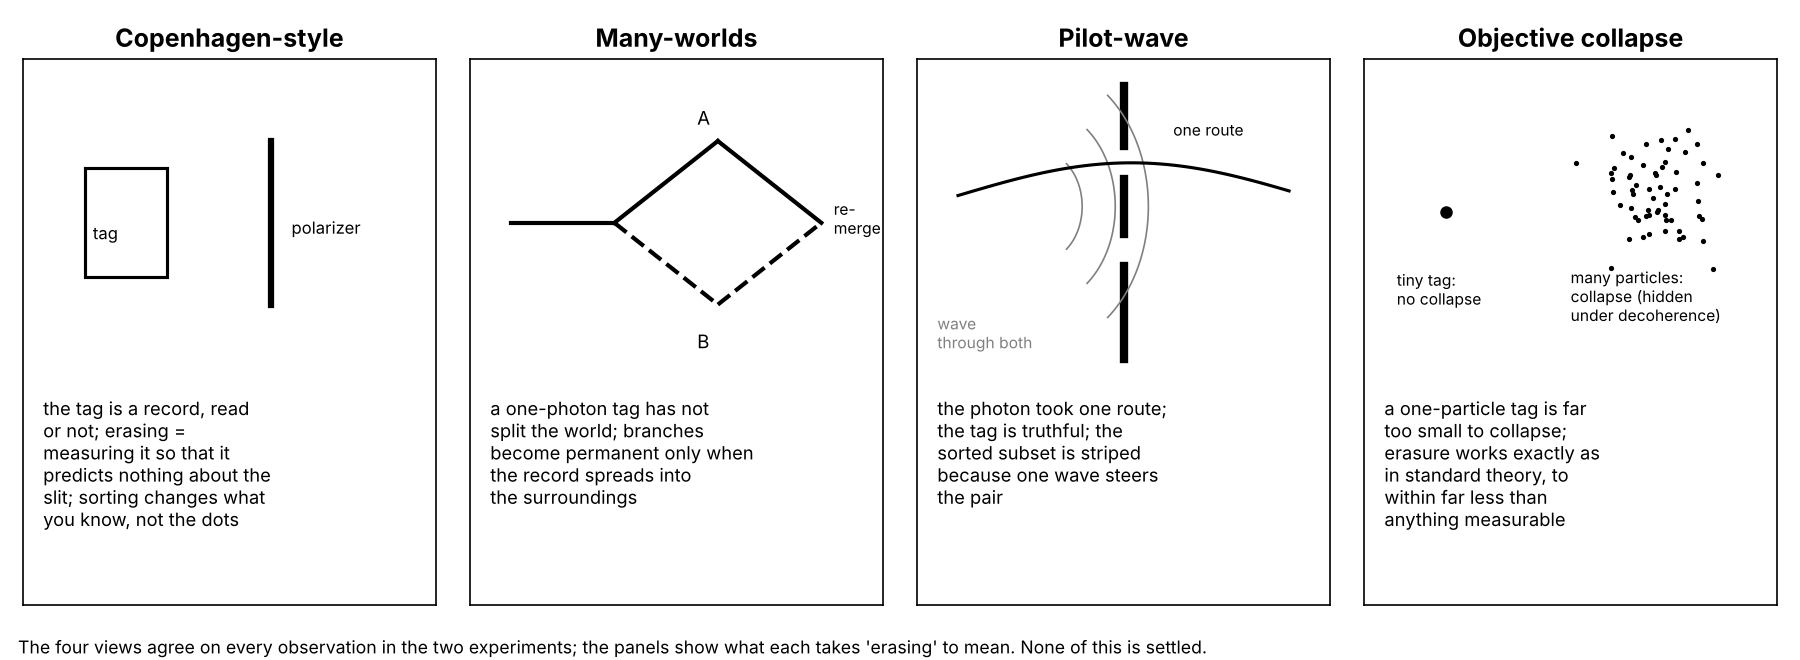
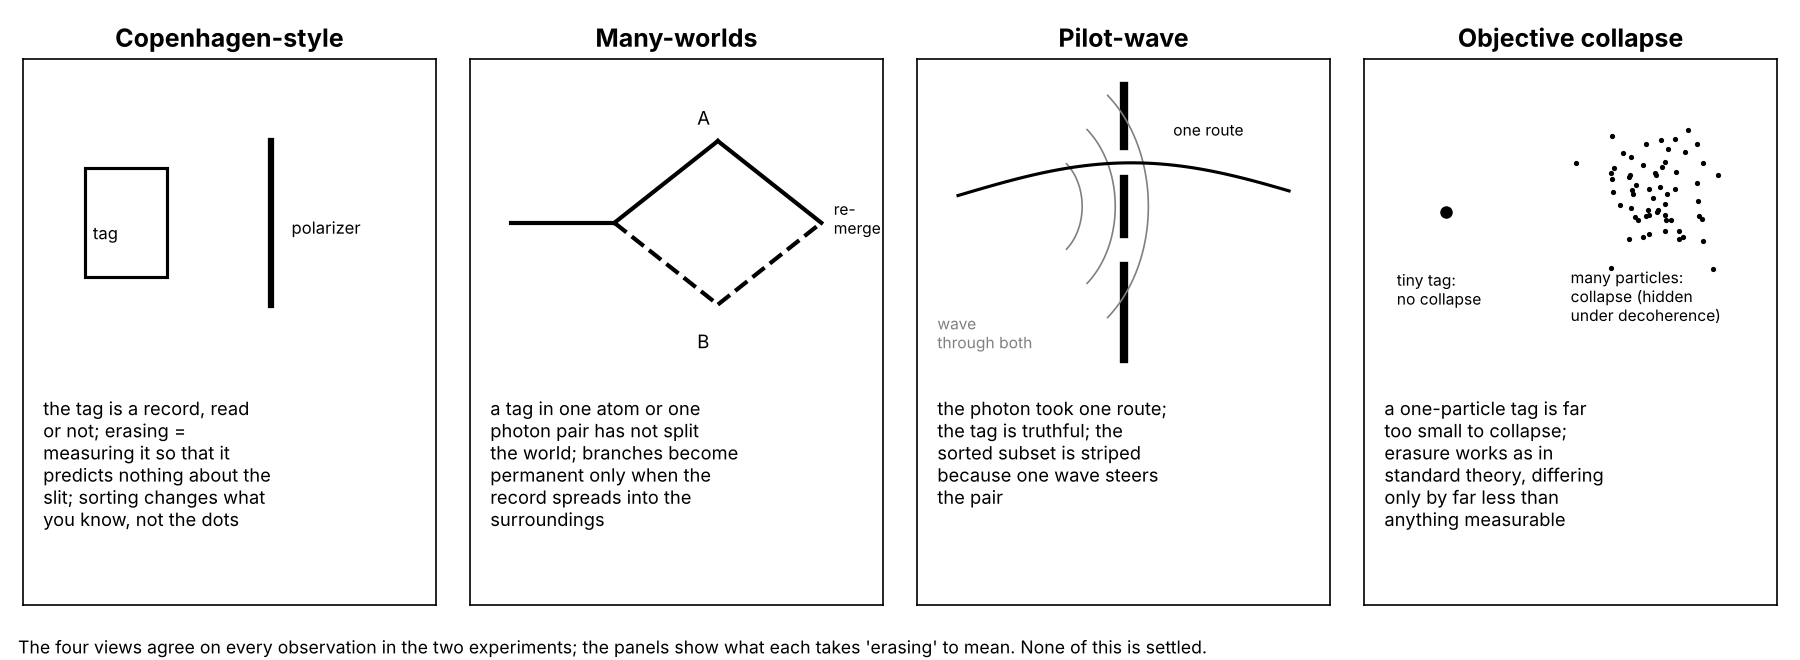
Tutor run (which-path): final fixes to explanation A and its figures
Claude-Session: https://claude.ai/code/session_011EeWx5AEdppYiarvRbDBmd

Changed region(s): [[0.2489, 0.6061, 0.4356, 0.8182], [0.7778, 0.6667, 0.9022, 0.7879]]

diff --git a/work/20261008-142932-which-path-decoherence/checks/fig_a-relate-map_2.py b/work/20261008-142932-which-path-decoherence/checks/fig_a-relate-map_2.py
@@ -6,7 +6,7 @@ fig, ax = plt.subplots(figsize=(10, 5.2)); ax.set_xlim(0, 10); ax.set_ylim(0, 10
 box = dict(boxstyle="round,pad=0.4", fc="white", ec="k", lw=1.3)
 ax.text(5, 9.2, "Model 2: joint wave of particle + tag\n(Schrödinger equation)", ha="center", va="center", bbox=box)
 ax.text(2.0, 6.3, "Model 1: two arrows for the tag\n(overlap = stripe strength)", ha="center", va="center", bbox=box)
-ax.text(8.0, 6.3, "decoherence: very many taggers, each\nscattered off the object (overlaps multiply)", ha="center", va="center", bbox=box)
+ax.text(8.0, 6.3, "decoherence: very many taggers, each\nscattered off the object (overlaps multiply);\nthe record then spreads beyond collecting", ha="center", va="center", bbox=box)
 ax.annotate("", xy=(2.4, 7.0), xytext=(4.2, 8.6), arrowprops=dict(arrowstyle="-|>", lw=1.5))
 ax.annotate("", xy=(7.6, 7.0), xytext=(5.8, 8.6), arrowprops=dict(arrowstyle="-|>", lw=1.5))
 ax.text(0.6, 8.0, "same theory, routes grouped,\ntag drawn as arrows", fontsize=8.5)
@@ -17,5 +17,5 @@ ax.plot([0.3, 0.3, 6.6, 6.6], [2.2, 1.9, 1.9, 2.2], "k-", lw=1)
 ax.text(3.45, 1.2, "identical predictions for both experiments;\nwhat 'erasing' means differs; open question", ha="center", fontsize=8.5)
 ax.text(8.5, 3.0, "objective collapse", ha="center", va="center", bbox=dict(boxstyle="round,pad=0.4", fc="white", ec="k", ls="--"))
 ax.text(8.5, 1.4, "a slightly different theory;\ndifference far too small to\nsee for a one-particle tag", ha="center", fontsize=8.5)
-fig.text(0.01, 0.01, "The two models are one theory at two levels of detail; decoherence is the same theory with many taggers; the three views agree on everything\nmeasured here, and collapse differs only for records far larger than these.", fontsize=8.5)
+fig.text(0.01, 0.01, "The two models are one theory at two levels of detail; decoherence is the same theory with many taggers; the three views agree on everything\nmeasured here, and collapse differs measurably only for records far larger than these.", fontsize=8.5)
 fig.tight_layout(rect=(0, 0.06, 1, 1)); fig.savefig(OUT, dpi=150); print(OUT)

diff --git a/work/20261008-142932-which-path-decoherence/checks/fig_a-erasure-views_2.py b/work/20261008-142932-which-path-decoherence/checks/fig_a-erasure-views_2.py
@@ -4,9 +4,9 @@ plt.rcParams.update({"font.size": 10})
 OUT = "/home/user/quantum-tutor-2/work/20261008-142932-which-path-decoherence/figures/a-erasure-views.png"
 fig, axs = plt.subplots(1, 4, figsize=(12, 4.4))
 txt = ["the tag is a record, read or not; erasing = measuring it so that it predicts nothing about the slit; sorting changes what you know, not the dots",
-       "a one-photon tag has not split the world; branches become permanent only when the record spreads into the surroundings",
+       "a tag in one atom or one photon pair has not split the world; branches become permanent only when the record spreads into the surroundings",
        "the photon took one route; the tag is truthful; the sorted subset is striped because one wave steers the pair",
-       "a one-particle tag is far too small to collapse; erasure works exactly as in standard theory, to within far less than anything measurable"]
+       "a one-particle tag is far too small to collapse; erasure works as in standard theory, differing only by far less than anything measurable"]
 titles = ["Copenhagen-style", "Many-worlds", "Pilot-wave", "Objective collapse"]
 for ax, t, tt in zip(axs, titles, txt):
     ax.set_xlim(0, 1); ax.set_ylim(0, 1); ax.set_xticks([]); ax.set_yticks([]); ax.set_title(t, weight="bold")

diff --git a/work/20261008-142932-which-path-decoherence/checks/fig_a-leaked-tag_2.py b/work/20261008-142932-which-path-decoherence/checks/fig_a-leaked-tag_2.py
@@ -10,7 +10,7 @@ ax.axhline(0.01, color="gray", lw=0.8); ax.text(42, 0.012, "stripes 1% strong", 
 ax.plot(50, 0.9**50, "o", ms=10, mfc="none", mec="tab:blue", mew=2)
 ax.annotate(f"N = 50: {0.9**50:.3f}", xy=(50, 0.9**50), xytext=(30, 1e-4), arrowprops=dict(arrowstyle="->"))
 ax.set_ylim(1e-6, 1.5); ax.set_xlim(0, 60)
-ax.set_xlabel("N, number of particles the tag has spread into\n(counting only those that each scattered off the molecule)"); ax.set_ylabel("stripe strength = p^N")
+ax.set_xlabel("N, particles that have each scattered off the molecule\n(independently, same overlap p)"); ax.set_ylabel("stripe strength = p^N")
 ax.legend(loc="upper right")
 fig.text(0.01, 0.005, "Model: overlaps multiply (each particle same overlap p, particles independent). \nA gas atom whose wavelength is far shorter than the path separation has p near 0 (one collision suffices);\n"
          "very long-wavelength light has p near 1. \nSorting the stripes back out would need every one of the N particles measured along its own halfway direction.", fontsize=7.8)

diff --git a/work/20261008-142932-which-path-decoherence/checks/fig_a-same-situation_2.py b/work/20261008-142932-which-path-decoherence/checks/fig_a-same-situation_2.py
@@ -15,7 +15,7 @@ ax.text(0.2, -1.0, "added: (+1) + (−1) = 0\nchance 0", fontsize=10)
 ax = axs[1]; ax.set_title("2. tag (A or B, told apart\nwith certainty)", fontsize=10)
 hand(ax, 1, 0.9, 1, '"dot here, tag A": +1'); hand(ax, 3, 0.9, -1, '"dot here, tag B": −1')
 ax.text(0.2, -1.0, "different situations, never added\nchance 1 + 1 = 2", fontsize=10)
-ax = axs[2]; ax.set_title("3. tag, then measured along\nthe halfway direction", fontsize=10)
+ax = axs[2]; ax.set_title("3. tag, then measured so that both\nresults are equally likely\nwhichever slit was used", fontsize=10)
 for y0, sgn, lab, res in [(1.5, -1, 'partner says +', "sum 0, chance 0"), (-0.6, +1, 'partner says −', "sum √2, chance 2")]:
     ax.text(0.0, y0+0.75, f'"dot here, {lab.split()[-1]}":', fontsize=8.5)
     for x, a, l in [(0.7, 1, "+1/√2"), (1.9, sgn, ("−1/√2" if sgn < 0 else "+1/√2"))]:

diff --git a/work/20261008-142932-which-path-decoherence/final-A.md b/work/20261008-142932-which-path-decoherence/final-A.md
@@ -32,9 +32,9 @@ The record that kills the stripes does not have to push the particle off course,
 
 *Sources:* Feynman, Leighton & Sands, *The Feynman Lectures on Physics*, Vol. III (2010), ch. 3 "Probability Amplitudes", §3-2 "The two-slit interference pattern" (when amplitudes are added and when chances are); Feynman, *QED* (1985), ch. 3 (the passage on detectors at the holes); Griffiths & Schroeter, *Introduction to Quantum Mechanics*, 3rd ed. (2018), ch. 12 "Afterword", §12.3 "Mixed States and the Density Matrix"; Schlosshauer (2007), ch. 2; Walborn et al. (2002), the theory section of the same paper.
 
-**Where decoherence comes in: tags written by the surroundings, then spread.** The 2002 tag could be sorted out because it sat in the polarizations of two photons that were both caught, with a polarizer as the handle. Now let the tag be a gas atom that bounced off the particle on its way through. That atom's two possible outgoing states, "came off the left path" and "came off the right path", are the two arrows of Model 1, and when the gas atom's own wavelength is far shorter than the distance between the paths their overlap is close to zero: one glancing collision, which barely deflects a heavy molecule, is a near-perfect tag. Two separate things then happen. First, more taggers: each further gas atom that hits the molecule adds a tag of its own, and the overlaps multiply, so the stripe strength falls fast; even if each tagger told the paths apart only weakly, say an overlap of 0.9 each, fifty of them leave stripes about half a per cent strong. Second, spreading: each gas atom flies off, hits the chamber wall, bounces off other atoms, and the record it carries is shared with more and more particles. That spreading does not weaken the stripes any further (the overlap between the two situations is set when the molecule is hit; later collisions among the surroundings alone leave it as it is), but it scatters the record over so many particles that sorting the stripes back out would mean catching every one of them and measuring it in the right way. Nothing forbids that in principle; nobody can do it in practice. That is decoherence: which-path tags written into the surroundings by ordinary interactions, continuously, without anyone intending it, and spread too widely to collect. *Seen* (Hornberger et al., Vienna, 2003): C70 molecules, 70 carbon atoms each, sent through a three-grating interferometer in which the stripes form at one particular distance behind the gratings (a near-field arrangement, not a far screen) and are read by sliding the last grating; the paths that make them are about a micrometre apart. The chamber's gas pressure was raised step by step. The stripe strength of the molecules that still arrived (not merely their number) fell exponentially with the pressure, each equal step in pressure cutting it by the same factor, over a range of a few millionths of a millibar, about a billionth of atmospheric pressure, as expected if each collision with a gas atom, whose wavelength of tens of picometres is tens of thousands of times shorter than the path separation, writes a near-perfect tag. *Seen too* (Hackermüller et al., Vienna, 2004): the same kind of interferometer in good vacuum, with the molecules heated by a laser before they enter. A hot molecule glows faintly, now and then sending off a photon that nobody detects. Straight from the oven (roughly 1,000 K inside) the stripes were at full strength; as the laser raised the molecules' internal temperature they faded, and at a few thousand kelvin they were nearly gone (the temperatures are inferred from the laser power with a model of how the molecules absorb and radiate, so they are approximate). The reading: a photon leaving from one path or the other is a tag whose two end states overlap almost completely if its wavelength is much longer than the path separation, and little or not at all once it is shorter than about twice the separation, Feynman's point in §1-6 that light of too long a wavelength cannot tell the holes apart; a hotter molecule sends off more photons, and shorter ones. Heat on its own is not a record: C60 molecules straight from an oven at about 900 K gave clear stripes in 1999, diffracted by a grating with slits 100 nanometres apart; a record is made only when something leaves the molecule carrying its position. Last time's dust grain is the same thing without a chamber: for a grain some ten micrometres across in ordinary air, each air molecule that hits it is a near-perfect tag of where it is, to within a grain's width, and the standard estimate, a calculation and not a measurement, has the stripes between two such positions fading in far less than a millionth of a billionth of a second. One honest limit: decoherence explains why the two paths' chances add, not why one dot appears; it says when a record is beyond sorting, and leaves the single outcome to the interpretations.
+**Where decoherence comes in: tags written by the surroundings, then spread.** The 2002 tag could be sorted out because it sat in the polarizations of two photons that were both caught, with a polarizer as the handle. Now let the tag be a gas atom that bounced off the particle on its way through. That atom's two possible outgoing states, "came off the left path" and "came off the right path", are the two arrows of Model 1, and when the gas atom's own wavelength is far shorter than the distance between the paths their overlap is close to zero: even a collision that barely deflects the heavy molecule is a near-perfect tag, as long as it passes on enough sideways push to tell the two paths apart (true of essentially every collision in such experiments). Two separate things then happen. First, more taggers: each further gas atom that hits the molecule adds a tag of its own, and the overlaps multiply, so the stripe strength falls fast; even if each tagger told the paths apart only weakly, say an overlap of 0.9 each, fifty of them leave stripes about half a per cent strong. Second, spreading: each gas atom flies off, hits the chamber wall, bounces off other atoms, and the record it carries is shared with more and more particles. That spreading does not weaken the stripes any further (the overlap between the two situations is set when the molecule is hit; later collisions among the surroundings alone leave it as it is), but it scatters the record over so many particles that sorting the stripes back out would mean catching every one of them and measuring it in the right way. Nothing forbids that in principle; nobody can do it in practice. That is decoherence: which-path tags written into the surroundings by ordinary interactions, continuously, without anyone intending it, and spread too widely to collect. *Seen* (Hornberger et al., Vienna, 2003): C70 molecules, 70 carbon atoms each, sent through a three-grating interferometer in which the stripes form at one particular distance behind the gratings (a near-field arrangement, not a far screen) and are read by sliding the last grating; the paths that make them are about a micrometre apart. The chamber's gas pressure was raised step by step. The stripe strength of the molecules that still arrived (not merely their number) fell exponentially with the pressure, each equal step in pressure cutting it by the same factor, over a range of a few millionths of a millibar, about a billionth of atmospheric pressure, as expected if each collision with a gas atom, whose wavelength of tens of picometres is tens of thousands of times shorter than the path separation, writes a near-perfect tag. *Seen too* (Hackermüller et al., Vienna, 2004): the same kind of interferometer in good vacuum, with the molecules heated by a laser before they enter. A hot molecule glows faintly, now and then sending off a photon that nobody detects. Straight from the oven (roughly 1,000 K inside) the stripes were at full strength; as the laser raised the molecules' internal temperature they faded, and at a few thousand kelvin they were nearly gone (the temperatures are inferred from the laser power with a model of how the molecules absorb and radiate, so they are approximate). The reading: a photon leaving from one path or the other is a tag whose two end states overlap almost completely if its wavelength is much longer than the path separation, and little or not at all once it is shorter than about twice the separation, Feynman's point in §1-6 that light of too long a wavelength cannot tell the holes apart; a hotter molecule sends off more photons, and shorter ones. Heat on its own is not a record: C60 molecules straight from an oven at about 900 K gave clear stripes in 1999, diffracted by a grating with slits 100 nanometres apart; a record is made only when something leaves the molecule carrying its position. Last time's dust grain is the same thing without a chamber: for a grain some ten micrometres across in ordinary air, each air molecule that hits it is a near-perfect tag of where it is, to within a grain's width, and the standard estimate, a calculation and not a measurement, has the stripes between two such positions fading in far less than a millionth of a billionth of a second. One honest limit: decoherence explains why the two paths' chances add, not why one dot appears; it says when a record is beyond sorting, and leaves the single outcome to the interpretations.
 
-![Computed: stripe strength p^N on a logarithmic scale against N, for a per-particle overlap p = 0.9 (circles) and p = 0.5 (squares), with a line at 1% and the point N = 50, p = 0.9 (about 0.005) marked. The axis label says "particles the tag has spread into"; read N as the number of particles that have each scattered off the molecule, independently and each with the same overlap, because only interactions involving the molecule itself lower the stripe strength: a tag's later spreading through collisions among the surroundings leaves the overlap as it is, and matters because it puts the record beyond collecting. For a gas atom whose wavelength is far shorter than the path separation, p is close to 0 and one collision is already enough; for very long-wavelength light p is close to 1. Notice: on a log scale the fall is a straight line, so even weak taggers kill the stripes once there are enough of them.](figures/a-leaked-tag.png)
+![Computed: stripe strength p^N on a logarithmic scale against N, for a per-particle overlap p = 0.9 (circles) and p = 0.5 (squares), with a line at 1% and the point N = 50, p = 0.9 (about 0.005) marked. N counts the particles that have each scattered off the molecule, independently and each with the same overlap. Only interactions involving the molecule itself lower the stripe strength: a tag's later spreading through collisions among the surroundings leaves the overlap as it is, and matters because it puts the record beyond collecting. For a gas atom whose wavelength is far shorter than the path separation, p is close to 0 and one collision is already enough; for very long-wavelength light p is close to 1. Notice: on a log scale the fall is a straight line, so even weak taggers kill the stripes once there are enough of them.](figures/a-leaked-tag.png)
 
 *Sources:* Schlosshauer (2007), ch. 2 and ch. 3 "Decoherence Is Everywhere" (scattering records and the dust grain), and ch. 6 (experimental observations of decoherence, including the fullerene work); Hornberger et al., *Phys. Rev. Lett.* 90, 160401 (2003): the gas-pressure experiment; Hackermüller et al., *Nature* 427, 711 (2004): the heated-molecule experiment; Arndt et al., *Nature* 401, 680 (1999): C60 stripes straight from the oven; Feynman, Leighton & Sands, *The Feynman Lectures on Physics*, Vol. III (2010), ch. 1, §1-6 (light of too long a wavelength); Zurek, *Physics Today* 44(10), 36 (1991): the classic overview; Griffiths & Schroeter, 3rd ed., §12.3 "Mixed States and the Density Matrix".
 
@@ -44,11 +44,11 @@ The record that kills the stripes does not have to push the particle off course,
 
 *Many-worlds.* The joint wave is all there is. Tag states A and B are two branches, but in this view a world only splits for good once a record has spread into countless particles; a tag held in one atom or in one pair of photons has not split anything, which is why it can still be rotated back or sorted on a partner. Decoherence is the spreading that makes branches permanent. Pro: tag, erasure and decoherence are one process with no cut anywhere. Con: critics object that it is unclear what the chances mean when every outcome occurs; supporters reply that this is the wave equation taken seriously and that decoherence is what picks out the branches.
 
-*Pilot-wave.* Every atom and every photon takes one definite route and lands where the wave steers it; the tag records that route truthfully. Sorting by the partner's later result picks out, from the dots already made, those whose partner the shared wave steered through the polarizer, and because the pair is steered by one joint wave the dots in that subset are striped. For the atom, a tag that is rotated back makes the two parts of the wave overlap again, and both steer the atom again. Nothing is erased and nothing runs backward; the steering across the pair is instantaneous, which is the usual cost. Same predictions as the other views here (its treatment of photons is less settled than of atoms).
+*Pilot-wave.* Every atom and every photon takes one definite route and lands where the wave steers it; the tag records that route truthfully. Sorting by the partner's later result picks out, from the dots already made, those whose partner the shared wave steered through the polarizer, and because the pair is steered by one joint wave the dots in that subset are striped. For the atom, a tag that is rotated back makes the two parts of the wave overlap again, and their contributions interfere in the steering again. Nothing is erased and nothing runs backward; the steering across the pair is instantaneous, which is the usual cost. Same predictions as the other views here (its treatment of photons is less settled than of atoms).
 
 *Objective collapse.* A tag in one atom or one pair of photons is far too small to trigger a collapse, so erasure works indistinguishably from standard theory (the difference, the tiny collapse rate these models give to even a single atom, is far below anything measurable), and these experiments do not test the proposal. A record spread through a huge number of particles would collapse, but that is hidden under ordinary decoherence anyway. The tests are elsewhere: interference of ever larger molecules (about two thousand atoms by 2019), and searches for the faint spontaneous heating and radiation the models predict for ordinary matter, which so far find no departure from the standard theory and narrow the room for it (one proposed version was ruled out by an underground radiation search, Donadi et al.).
 
-![What each view takes "erasing" to be (schematic). Copenhagen-style: the tag is a record whether or not it is read, and sorting changes what you know, not the dots. Many-worlds: branches A and B that re-merge, because in this view a one-particle tag has not split the world and branches become permanent only when the record spreads. Pilot-wave: one route through one slit, steered by a wave through both. Objective collapse: a tiny tag with no collapse, a cloud of many particles with a collapse hidden under decoherence. The four agree on every observation in the two experiments, and none of this is settled. Read the collapse panel's "exactly as in standard theory" as "to within far less than anything measurable": collapse models give matter a tiny but nonzero collapse rate even for a single atom.](figures/a-erasure-views.png)
+![What each view takes "erasing" to be (schematic). Copenhagen-style: the tag is a record whether or not it is read, and sorting changes what you know, not the dots. Many-worlds: branches A and B that re-merge, because in this view a tag in one atom or one photon pair has not split the world and branches become permanent only when the record spreads. Pilot-wave: one route through one slit, steered by a wave through both. Objective collapse: a tiny tag with no collapse, a cloud of many particles with a collapse hidden under decoherence. The four agree on every observation in the two experiments, and none of this is settled. In the collapse panel, erasure works as in standard theory, differing only by far less than anything measurable: collapse models give matter a tiny but nonzero collapse rate even for a single atom.](figures/a-erasure-views.png)
 
 *Sources:* Maudlin, *Philosophy of Physics: Quantum Theory* (2019), ch. 4 "Collapse Theories and the Problem of Local Beables", ch. 5 "Pilot Wave Theories", ch. 6 "Many Worlds"; Carroll, *Something Deeply Hidden* (2019), ch. 6 "Splitting the Universe"; Bell, *Speakable and Unspeakable in Quantum Mechanics*, 2nd ed. (2004), ch. 20 "Six possible worlds of quantum mechanics"; Schlosshauer (2007), ch. 8 (decoherence and the interpretations); Bassi et al., *Rev. Mod. Phys.* 85, 471 (2013): collapse models and their tests; Fein et al., *Nature Physics* 15, 1242 (2019): interference of molecules of about two thousand atoms; Donadi et al., *Nature Physics* 17, 74 (2021): the underground radiation search.
 
